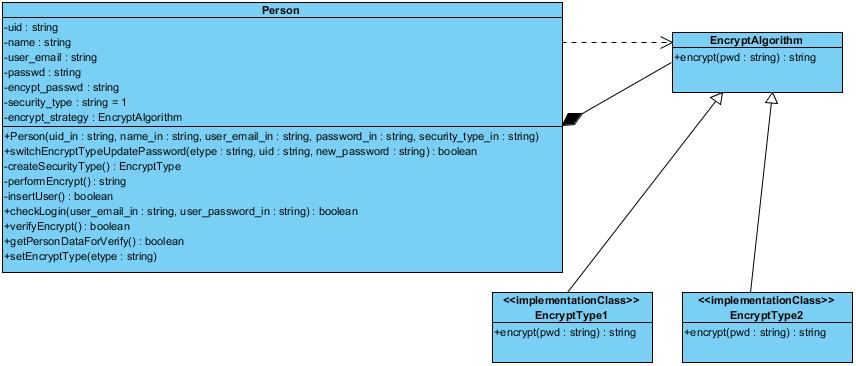
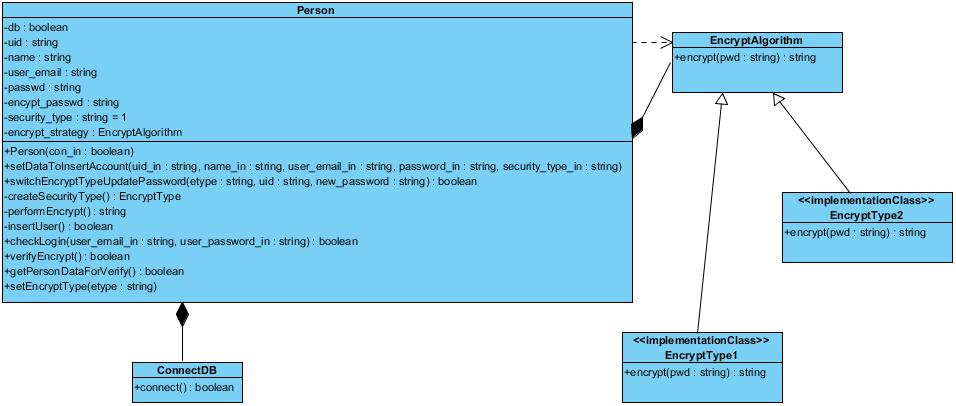
update class diagram

diff --git a/PersonTest.php b/PersonTest.php
@@ -12,7 +12,7 @@ class PersonTest extends TestCase {
         $this->con = new connectDB();
         $this->p1 = new Person($this->con->connect());
     }
-    //for test only
+    //for test only (used getXXX)
     public function testCreateObject(){
         $this->p1->setDataToInsertAccount("2166","Somchai","somchai@myresearch.com","test","2");
         $this->assertEquals("2166",$this->p1->getUid());
@@ -22,19 +22,19 @@ class PersonTest extends TestCase {
         $this->assertEquals("2",$this->p1->getSecurityType());
     }
 
-    //for test only
+    //for test only (used getXXX)
     public function testEncryptionType1(){
         $this->p1->setDataToInsertAccount("2166","Somchai","somchai@myresearch.com","test","1");
         $this->assertTrue(password_verify($this->p1->getPassword(), $this->p1->getEncryptPassword()));
     }
 
-    // //for test only
+    // //for test only (used getXXX)
     public function testEncryptionType2(){
         $this->p1->setDataToInsertAccount("2166","Somchai","somchai@myresearch.com","test","2");
         $this->assertTrue(md5($this->p1->getPassword()) == $this->p1->getEncryptPassword());
     }
 
-    // //for test only
+    // //for test only (used getXXX)
     public function testChangeEncrptionType(){
         $this->p1->setDataToInsertAccount("2166","Somchai","somchai@myresearch.com","test","1");
         $this->assertTrue(password_verify($this->p1->getPassword(), $this->p1->getEncryptPassword()));

diff --git a/Person.php b/Person.php
@@ -18,7 +18,6 @@ class Person
     function __construct($con_in)
     {
         $this->db= $con_in;
-
     }
 
     public function setDataToInsertAccount($uid_in,$name_in, $user_email_in, $password_in, $security_type_in){
